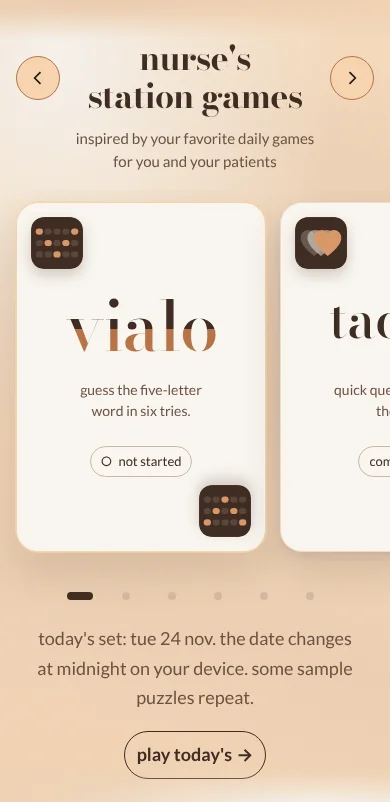
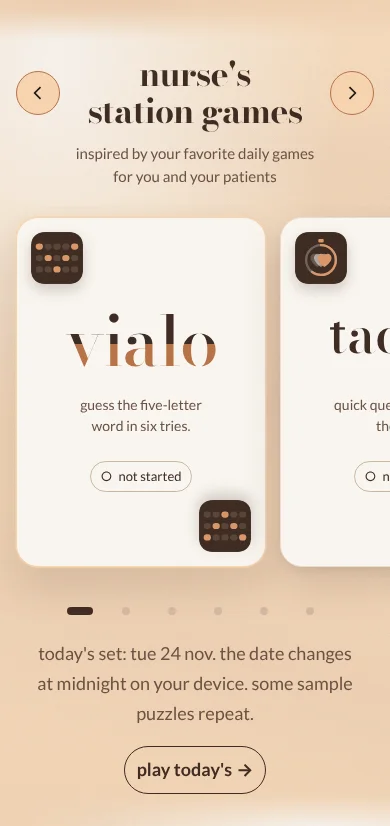
Home v3 games row: keep the heading and last line out of the scene fades (D-53); phone test follows the board
The phone games test in home-phone-sections.spec.ts now expects the board's layout (250 x 350 card, arrows flanking the heading, a clear peek): an intentional design change, the old test pinned 280 x 392 with the arrows beside "play today's". The section now has 16 px above the heading and as much space below as the next scene's fade, so no word sits in a fade.

Claude-Session: https://claude.ai/code/session_01V8pHm5xDFd3PCqqXThexqv

diff --git a/tests/e2e/home-phone-sections.spec.ts b/tests/e2e/home-phone-sections.spec.ts
@@ -53,16 +53,16 @@ test.describe('home below the hero on a phone', () => {
     expect(await page.evaluate(() => document.documentElement.scrollWidth)).toBeLessThanOrEqual(390);
   });
 
-  test('games carousel: the desktop card, arrows beside "play today\'s" and a clear peek of the next card', async ({ page }) => {
+  test('games carousel: the board\'s 250 × 350 card, arrows flanking the heading and a clear peek of the next card', async ({ page }) => {
     const section = page.locator('#daily-games');
     await section.scrollIntoViewIfNeeded();
     await expect(section.locator('[data-games-carousel]')).toHaveAttribute('data-carousel-state', 'settled');
 
     const first = (await section.locator('[data-game-card]').nth(0).boundingBox())!;
-    // The desktop card is 280 × 392.
-    expect(Math.round(first.width)).toBe(280);
-    expect(first.height).toBeGreaterThanOrEqual(392);
-    expect(first.height).toBeLessThan(420);
+    // The board's phone card is 250 × 350 (an intentional design change from the old 280 × 392).
+    expect(Math.round(first.width)).toBe(250);
+    expect(first.height).toBeGreaterThanOrEqual(350);
+    expect(first.height).toBeLessThan(380);
     // What is really VISIBLE of the next card: its box cut by the carousel's clip box and by the document. At least
     // 48 px shows, and the card runs on past the clip, so it reads as "more this way".
     const visible = await section.evaluate((root) => {
@@ -79,15 +79,20 @@ test.describe('home below the hero on a phone', () => {
     const status = (await section.locator('[data-game-card]').nth(0).locator('.gstatus').boundingBox())!;
     expect(first.y + first.height - (status.y + status.height)).toBeLessThan(120);
 
-    // The arrows are at least 44 × 44, in the same row as "play today's", and none floats above the cards.
-    const action = (await section.getByTestId('games-link').boundingBox())!;
+    // The arrows are at least 44 × 44 and flank the heading, level with it, on either side of its words
+    // (Home v3 board; they used to sit beside "play today's").
+    const heading = (await section.locator('#games-heading').boundingBox())!;
     for (const name of ['previous game', 'next game']) {
       const box = (await section.getByRole('button', { name }).boundingBox())!;
       expect(box.width).toBeGreaterThanOrEqual(44);
       expect(box.height).toBeGreaterThanOrEqual(44);
-      expect(box.y).toBeGreaterThan(first.y + first.height);
-      expect(Math.abs(box.y + box.height / 2 - (action.y + action.height / 2))).toBeLessThan(8);
+      expect(box.y + box.height).toBeLessThan(first.y);
+      expect(Math.abs(box.y + box.height / 2 - (heading.y + heading.height / 2))).toBeLessThan(4);
     }
+    const prev = (await section.getByRole('button', { name: 'previous game' }).boundingBox())!;
+    const next = (await section.getByRole('button', { name: 'next game' }).boundingBox())!;
+    expect(prev.x + prev.width).toBeLessThanOrEqual(heading.x + 1);
+    expect(next.x).toBeGreaterThanOrEqual(heading.x + heading.width - 1);
     await section.getByRole('button', { name: 'next game' }).click();
     await expect(section.locator('[data-game-card]').nth(1)).toHaveClass(/on/);
   });

diff --git a/tests/e2e/games-row-board.spec.ts b/tests/e2e/games-row-board.spec.ts
@@ -9,9 +9,9 @@ const TOLERANCE = 2;
 type Rect = { left: number; right: number; top: number; bottom: number; width: number; height: number };
 
 const sizes = [
-  { name: 'desktop', width: 1440, height: 900, arrow: 52, edge: 80, cardW: 280, cardH: 392, gap: 28, subToCards: 50, cardsToDot: 52, belowPill: 56 },
-  { name: 'phone', width: 390, height: 844, arrow: 44, edge: 16, cardW: 250, cardH: 350, gap: 14, subToCards: 30, cardsToDot: 44, belowPill: 24 },
-  { name: 'phone landscape', width: 844, height: 390, arrow: 40, edge: 24, cardW: 186, cardH: 260, gap: 12, subToCards: 18, cardsToDot: 30, belowPill: 0 },
+  { name: 'desktop', width: 1440, height: 900, arrow: 52, edge: 80, cardW: 280, cardH: 392, gap: 28, subToCards: 50, cardsToDot: 52, belowPill: 72 },
+  { name: 'phone', width: 390, height: 844, arrow: 44, edge: 16, cardW: 250, cardH: 350, gap: 14, subToCards: 30, cardsToDot: 44, belowPill: 32 },
+  { name: 'phone landscape', width: 844, height: 390, arrow: 40, edge: 24, cardW: 186, cardH: 260, gap: 12, subToCards: 18, cardsToDot: 30, belowPill: 72 },
 ] as const;
 
 for (const size of sizes) {
@@ -74,8 +74,9 @@ for (const size of sizes) {
       expect(Math.abs(m.cards[0].top - m.sub.bottom - size.subToCards)).toBeLessThanOrEqual(TOLERANCE);
       expect(Math.abs(m.dotCenter - m.cards[0].bottom - size.cardsToDot)).toBeLessThanOrEqual(TOLERANCE);
       expect(Math.abs(m.section.bottom - m.pill.bottom - size.belowPill)).toBeLessThanOrEqual(TOLERANCE);
-      // The section adds no space above its heading (the hero's own bottom padding is the gap).
-      expect(Math.abs(m.heading.top - m.section.top)).toBeLessThanOrEqual(TOLERANCE);
+      // The section adds only 16 px above its heading (the hero's own bottom padding is the gap); that keeps the
+      // heading's glyphs out of the scene fade above it (D-53).
+      expect(Math.abs(m.heading.top - m.section.top - 16)).toBeLessThanOrEqual(TOLERANCE);
 
       if (size.name === 'phone') {
         // One card and a peek of the next: the second card starts inside the screen with at least 100 px showing.

diff --git a/src/styles/tokens.css b/src/styles/tokens.css
@@ -590,9 +590,12 @@
     --game-stage-inline-phone: 1rem;
     --game-stage-padding-phone: 0 var(--game-stage-inline-phone);
     --game-stage-padding-landscape: 0 1.5rem;
-    --game-section-bottom: 3.5rem;            /* below "play today's": the board's dots-to-next-heading gap minus the next section's own padding */
-    --game-section-bottom-phone: 1.5rem;
-    --game-section-bottom-landscape: 0px;
+    /* Below "play today's": the next scene fades in over the last --scene-fade-top of this section (D-53), so the space
+       is at least that tall and no word sits in the fade. This is the one place the board's tighter gap gives way. */
+    --game-section-top: 1rem;                 /* the heading's glyphs reach up to 14 px above its line box; this keeps them out of the scene fade above (D-53) */
+    --game-section-bottom: var(--spacing-section);
+    --game-section-bottom-phone: var(--spacing-section-phone);
+    --game-section-bottom-landscape: var(--spacing-section);
     --game-header-gap-phone: 0.375rem;
     --game-heading-size-phone: 2.125rem;      /* 34 px */
     --game-heading-size-landscape: 2.625rem;  /* 42 px */
